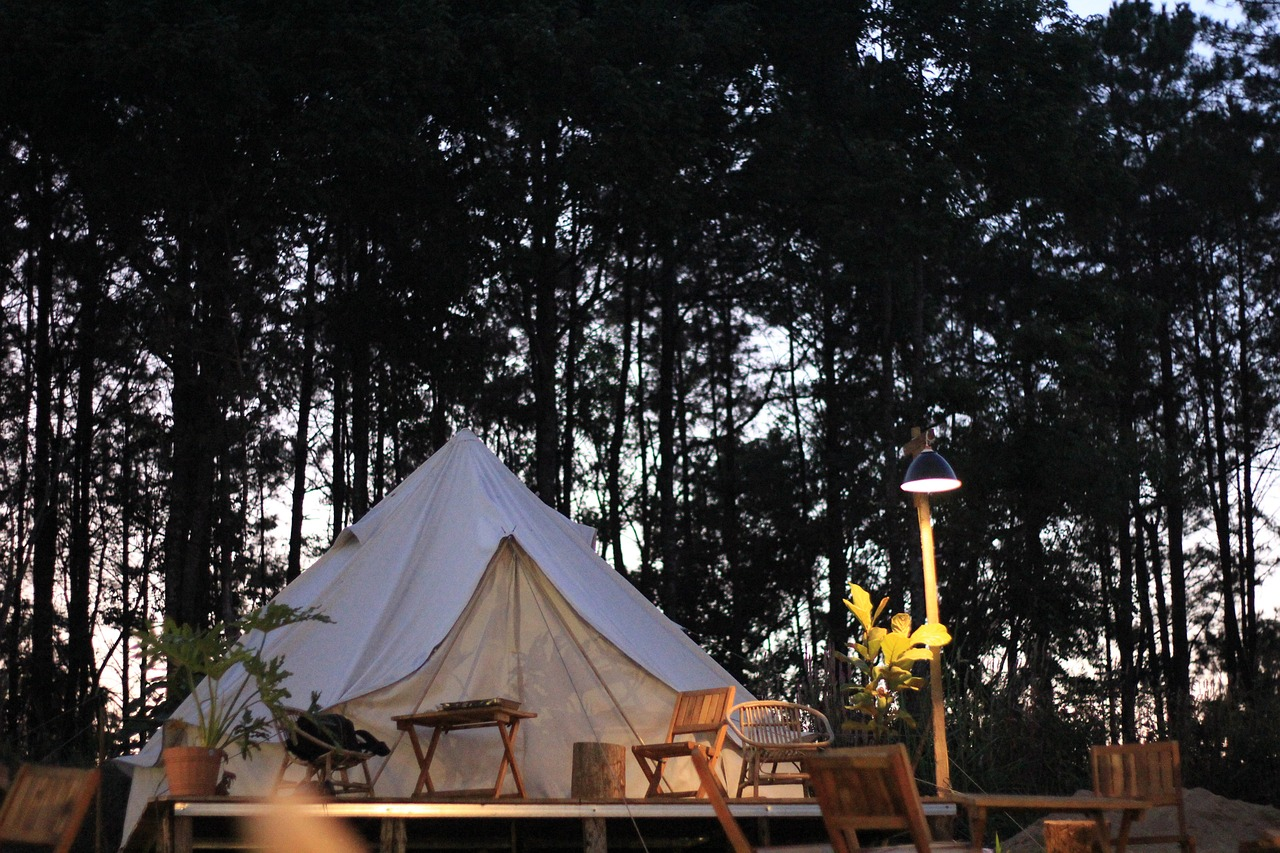
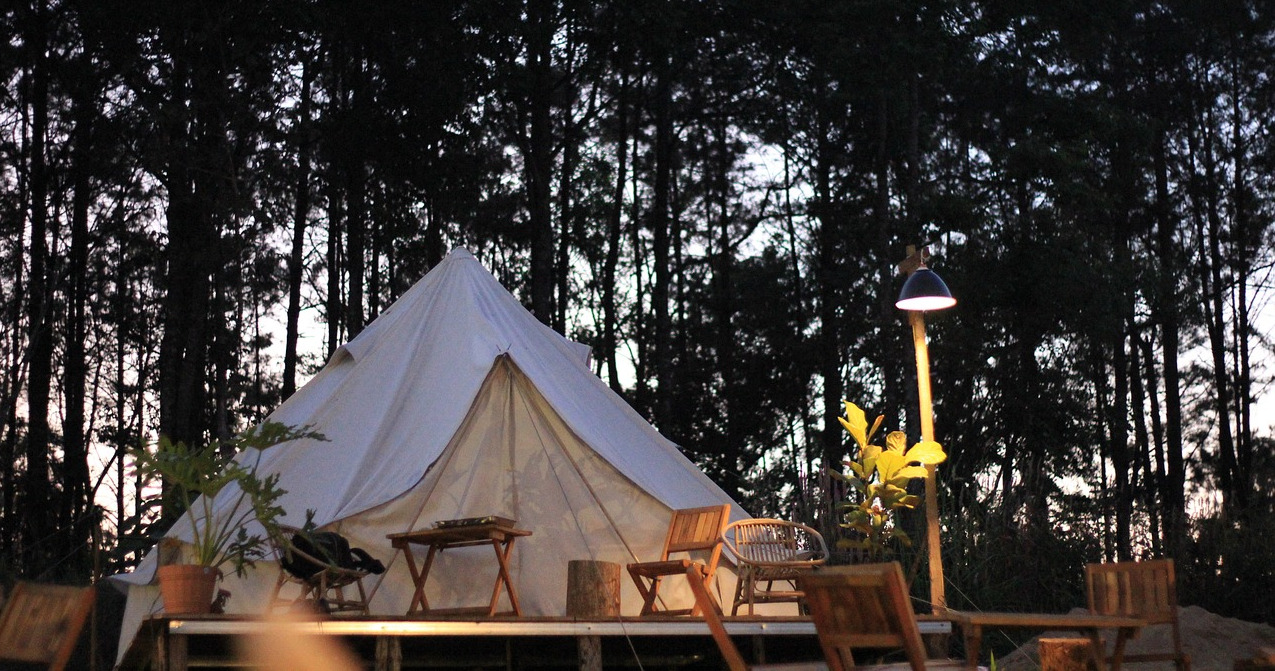
cambios

diff --git a/M2U2/Glamping/eventos.html b/M2U2/Glamping/eventos.html
@@ -6,6 +6,7 @@
     <meta name="viewport" content="width=device-width, initial-scale=1.0">
     <title>Eventos Caleuche</title>
     <link rel="icon" href="img/carpa.png" type="image/png">
+    <link href="https://fonts.googleapis.com/css2?family=Alfa+Slab+One&family=Bitter:ital,wght@0,100..900;1,100..900&family=Lora:ital,wght@0,400..700;1,400..700&display=swap" rel="stylesheet">
     <link href="https://cdn.jsdelivr.net/npm/bootstrap@5.2.3/dist/css/bootstrap.min.css" rel="stylesheet"
         integrity="sha384-rbsA2VBKQhggwzxH7pPCaAqO46MgnOM80zW1RWuH61DGLwZJEdK2Kadq2F9CUG65" crossorigin="anonymous">
     <link rel="stylesheet" href="glamping.css">
@@ -37,8 +38,9 @@
             </div>
         </div>
     </nav>
+    <!-- Fin de navegador  -->
 
-    <!-- img de presentacion de las carpas -->
+    <!-- img de fondo de los eventos/actividades -->
     <div class="conteiner fondo fondo-eventos">
         <div class="info-fondo">
             <h2 class="titulo-fondo">Eventos - Actividades</h2>
@@ -46,7 +48,7 @@
         </div>
     </div>
 
-    <!-- Card de eventos  -->
+    <!-- Card de los diferentes eventos  -->
     <div id="carpas" class="row align-items-stretch my-3 carpas py-4">
         <div class="col-lg-10 offset-lg-1">
             <div class="row row-cols-1 row-cols-md-3 g-4">
@@ -61,7 +63,7 @@
                         </div>
                     </div>
                 </div>
-                <div class="col" >
+                <div class="col">
                     <div class="card">
                         <img src="Img/pintura (1).jpg" alt="Taller de pintura" class="img-fluid">
                         <div class="card-body">
@@ -89,7 +91,9 @@
                         <div class="card-body">
                             <h2 class="card-title subtitulo sub-evento">Bienestar Natural</h2>
                             <h5 class="aclaracion-evento">Spa</h5>
-                            <p class="card-text">Disfruta de una experiencia de relajación total en nuestro spa, donde ofrecemos masajes terapéuticos y tratamientos revitalizantes rodeados de la belleza del Lago Lolog</p>
+                            <p class="card-text">Disfruta de una experiencia de relajación total en nuestro spa, donde
+                                ofrecemos masajes terapéuticos y tratamientos revitalizantes rodeados de la belleza del
+                                Lago Lolog</p>
                         </div>
                     </div>
                 </div>
@@ -152,13 +156,15 @@
             </div>
         </div>
     </div>
-    <!-- Fin de carpas -->
+    <!-- Fin de info de eventos  -->
 
+    <!-- Info para comunicacion -->
     <div class="container text-center my-5 fondo-adicional">
         <h4>¿Tienes alguna consulta?</h4>
-        <p>Para más información sobre nuestros eventos, no dudes en escribirnos a <a href="mailto:info@caleucheglamping.com">info@caleucheglamping.com</a>.</p>
+        <p>Para más información sobre nuestros eventos, no dudes en escribirnos a <a
+                href="mailto:info@caleucheglamping.com">info@caleucheglamping.com</a>.</p>
     </div>
-    
+
 
     <!-- Footer -->
     <div class="container-fluid footer">
@@ -166,7 +172,7 @@
             <p>Diseñado por: Jennifer Franco</p>
         </footer>
     </div>
-
+    <!-- Fin de footer -->
     <script src="https://cdn.jsdelivr.net/npm/bootstrap@5.2.3/dist/js/bootstrap.bundle.min.js"
         integrity="sha384-kenU1KFdBIe4zVF0s0G1M5b4hcpxyD9F7jL+jjXkk+Q2h455rYXK/7HAuoJl+0I4"
         crossorigin="anonymous"></script>

diff --git a/M2U2/Glamping/carpas.html b/M2U2/Glamping/carpas.html
@@ -6,6 +6,7 @@
     <meta name="viewport" content="width=device-width, initial-scale=1.0">
     <title>Carpas Caleuche</title>
     <link rel="icon" href="img/carpa.png" type="image/png">
+    <link href="https://fonts.googleapis.com/css2?family=Alfa+Slab+One&family=Bitter:ital,wght@0,100..900;1,100..900&family=Lora:ital,wght@0,400..700;1,400..700&display=swap" rel="stylesheet">
     <link href="https://cdn.jsdelivr.net/npm/bootstrap@5.2.3/dist/css/bootstrap.min.css" rel="stylesheet"
         integrity="sha384-rbsA2VBKQhggwzxH7pPCaAqO46MgnOM80zW1RWuH61DGLwZJEdK2Kadq2F9CUG65" crossorigin="anonymous">
     <link rel="stylesheet" href="glamping.css">
@@ -39,7 +40,7 @@
     </nav>
     <!-- Fin del navegador -->
 
-    <!-- img de presentacion de las carpas -->
+    <!-- img de fondo para seccion carpas -->
     <div class="conteiner fondo-carpa">
         <div class="info-fondo">
             <h2 class="titulo-fondo">Carpas-Caleuche Glamping</h2>
@@ -47,6 +48,8 @@
         </div>
     </div>
 
+    <!-- Fin de fondo -->
+    <!-- ACA QUISE HACER UNA NUEVA FILA PARA LOS CAROUSEL Y QUE NO ME QUEDARAN ADENTRO DE LA CARD PERO QUEDABAN DE TAMAÑO DIFERENTES -->
     <!-- carrusel de imagenes de las carpas
     <div class="row align-items-stretch my-3 py-4 ">
         <div class="col-md-4">
@@ -117,8 +120,7 @@
         </div>
     </div> -->
 
-    <!-- Colummnas info de las carpas
-      -->
+    <!-- Colummnas info de los tipos de carpas -->
     <div id="carpas" class="row align-items-stretch my-3 carpas py-4">
         <div class="col-lg-10 offset-lg-1">
             <div class="row row-cols-1 row-cols-md-3 g-4">
@@ -237,10 +239,9 @@
             </div>
         </div>
     </div>
-    <!-- Fin de carpas -->
+    <!-- Fin de info de carpas -->
 
-    <!-- Amenities -->
-
+    <!-- Info de Amenities -->
     <div id="amenities" class="row align-items-center py-4">
         <div class="col-lg-5 col-md-6 offset-lg-2">
             <h2 class="subtitulo">Incluye en su estadía</h2>
@@ -257,8 +258,8 @@
         <div class="col-lg-3 col-md-3">
             <img src="Img/desayuno.png" alt="desayuno" class="img-fluid">
         </div>
-
     </div>
+    <!-- Fin de Amenities -->
 
 
     <!-- Footer -->
@@ -267,7 +268,7 @@
             <p>Diseñado por: Jennifer Franco</p>
         </footer>
     </div>
-
+    <!-- Fin de footer  -->
     <script src="https://cdn.jsdelivr.net/npm/bootstrap@5.2.3/dist/js/bootstrap.bundle.min.js"
         integrity="sha384-kenU1KFdBIe4zVF0s0G1M5b4hcpxyD9F7jL+jjXkk+Q2h455rYXK/7HAuoJl+0I4"
         crossorigin="anonymous"></script>

diff --git a/M2U2/Glamping/promociones.html b/M2U2/Glamping/promociones.html
@@ -6,6 +6,7 @@
     <meta name="viewport" content="width=device-width, initial-scale=1.0">
     <title>Promociones Caleuche</title>
     <link rel="icon" href="img/carpa.png" type="image/png">
+    <link href="https://fonts.googleapis.com/css2?family=Alfa+Slab+One&family=Bitter:ital,wght@0,100..900;1,100..900&family=Lora:ital,wght@0,400..700;1,400..700&display=swap" rel="stylesheet">
     <link href="https://cdn.jsdelivr.net/npm/bootstrap@5.2.3/dist/css/bootstrap.min.css" rel="stylesheet"
         integrity="sha384-rbsA2VBKQhggwzxH7pPCaAqO46MgnOM80zW1RWuH61DGLwZJEdK2Kadq2F9CUG65" crossorigin="anonymous">
     <link rel="stylesheet" href="glamping.css">
@@ -38,14 +39,16 @@
         </div>
     </nav>
     <!-- Fin del navegador -->
-      <!-- img de presentacion de las carpas -->
+
+    <!-- img de fondo para promociones -->
     <div class="conteiner fondo-promociones">
         <div class="info-fondo">
             <h2 class="titulo-fondo">Promociones </h2>
             <h3 class="subtitulo-fondo">Conoce todo lo que tenemos para ofrecerte</h3>
         </div>
     </div>
-    <!-- Quienes somos? -->
+
+    <!-- Promo 1 -->
     <div class="row align-items-center py-4 mt-4 fondo-adicional">
         <div class="col-lg-3 col-md-3 offset-lg-2">
             <img src="Img/pareja.png" alt="" class="img-fluid">
@@ -69,7 +72,7 @@
         </div>
     </div>
 
-    <!-- Quienes somos? -->
+    <!-- Promo 2 -->
     <div class="row align-items-center py-4 mt-4 fondo-adicional">
         <div class="col-lg-3 col-md-3 offset-lg-2">
             <img src="Img/aventura.png" alt="" class="img-fluid">
@@ -91,16 +94,13 @@
         </div>
     </div>
 
-
-
-
     <!-- Footer -->
     <div class="container-fluid footer">
         <footer>
             <p>Diseñado por: Jennifer Franco</p>
         </footer>
     </div>
-
+    <!-- Fin de footer -->
     <script src="https://cdn.jsdelivr.net/npm/bootstrap@5.2.3/dist/js/bootstrap.bundle.min.js"
         integrity="sha384-kenU1KFdBIe4zVF0s0G1M5b4hcpxyD9F7jL+jjXkk+Q2h455rYXK/7HAuoJl+0I4"
         crossorigin="anonymous"></script>

diff --git a/M2U2/Glamping/index.html b/M2U2/Glamping/index.html
@@ -6,6 +6,7 @@
     <meta name="viewport" content="width=device-width, initial-scale=1.0">
     <title>Glamping Caleuche</title>
     <link rel="icon" href="img/carpa.png" type="image/png">
+    <link href="https://fonts.googleapis.com/css2?family=Alfa+Slab+One&family=Bitter:ital,wght@0,100..900;1,100..900&family=Lora:ital,wght@0,400..700;1,400..700&display=swap" rel="stylesheet">
     <link href="https://cdn.jsdelivr.net/npm/bootstrap@5.2.3/dist/css/bootstrap.min.css" rel="stylesheet"
         integrity="sha384-rbsA2VBKQhggwzxH7pPCaAqO46MgnOM80zW1RWuH61DGLwZJEdK2Kadq2F9CUG65" crossorigin="anonymous">
     <link rel="stylesheet" href="glamping.css">
@@ -87,7 +88,7 @@
     <!-- Fin del carrusel -->
 
     <!-- Quienes somos? -->
-    <div  class="row align-items-center py-4 mt-4 fondo-adicional">
+    <div class="row align-items-center py-4 mt-4 fondo-adicional">
         <div class="col-lg-2 col-md-3 offset-lg-2 d-none d-sm-block">
             <img src="Img/nosotros1.jpg" alt="" class="img-fluid">
         </div>
@@ -110,7 +111,7 @@
                 inspiración.</p>
         </div>
     </div>
-   
+
     <!-- Ubicación -->
     <div id="conocenos" class="row py-4">
         <div class="col-md-4 offset-md-2">
@@ -153,6 +154,7 @@
             <p>Diseñado por: Jennifer Franco</p>
         </footer>
     </div>
+    <!-- Fin de footer -->
 
     <script src="https://cdn.jsdelivr.net/npm/bootstrap@5.2.3/dist/js/bootstrap.bundle.min.js"
         integrity="sha384-kenU1KFdBIe4zVF0s0G1M5b4hcpxyD9F7jL+jjXkk+Q2h455rYXK/7HAuoJl+0I4"

diff --git a/M2U2/Glamping/glamping.css b/M2U2/Glamping/glamping.css
@@ -1,6 +1,7 @@
 body{
     background-color: #F4F1E1;
     color: #4D4D4D;
+    font-family: "Open Sans", sans-serif;
 }
 
 .navbar{
@@ -13,12 +14,6 @@ body{
 
 .margen{
     margin-top: 15px;
-}
-.footer{
-    background-color: #928879;
-    color: #F2E8D9;
-    text-align: center;
-    margin-top: 30px;
 }
 
 .carousel-caption {
@@ -37,6 +32,7 @@ body{
     margin-bottom: 20px;
     text-align: center;
     color: #8C9A4E;
+    font-family: "Bitter", cursive;
 }
 
 .btn-primary{
@@ -57,7 +53,7 @@ textarea{
 
 .fondo-carpa {
     background: url(Img/fondo-carpas.JPG);
-    background-position: center;
+    background-position: bottom;
     background-size: cover;
     height: 50vh;
     min-height: 600px;
@@ -82,6 +78,7 @@ textarea{
     padding: 200px 0px;
     text-align: center;
     color: #F2E8D9;
+    font-family: "Alfa Slab One", cursive;
  }
 
 
@@ -93,10 +90,13 @@ textarea{
 
 .titulo-fondo{
     font-size: 40px;
+    font-family: "Alfa Slab One", cursive;
+    
 }
 
 .subtitulo-fondo{
-    font-size: 20px;
+    font-size: 30px;
+    font-family: "Bitter", cursive;
 }
 
 .mapa iframe {
@@ -123,4 +123,11 @@ textarea{
 
 .card-text{
 text-align: center;
+}
+
+.footer{
+    background-color: #928879;
+    color: #F2E8D9;
+    text-align: center;
+    margin-top: 30px;
 }
